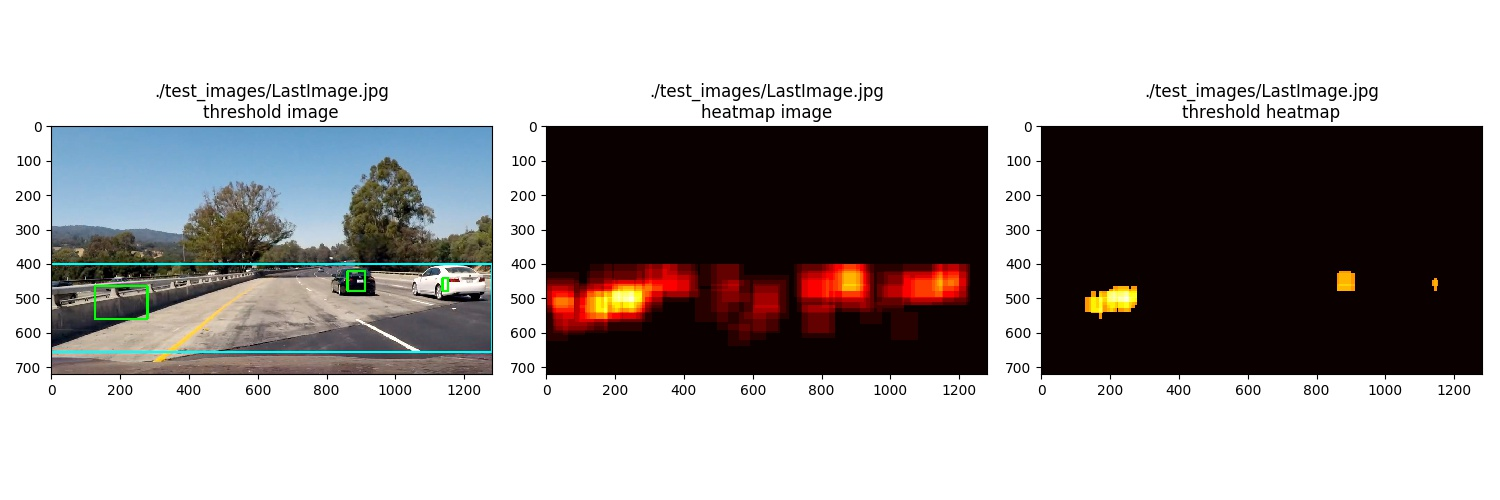
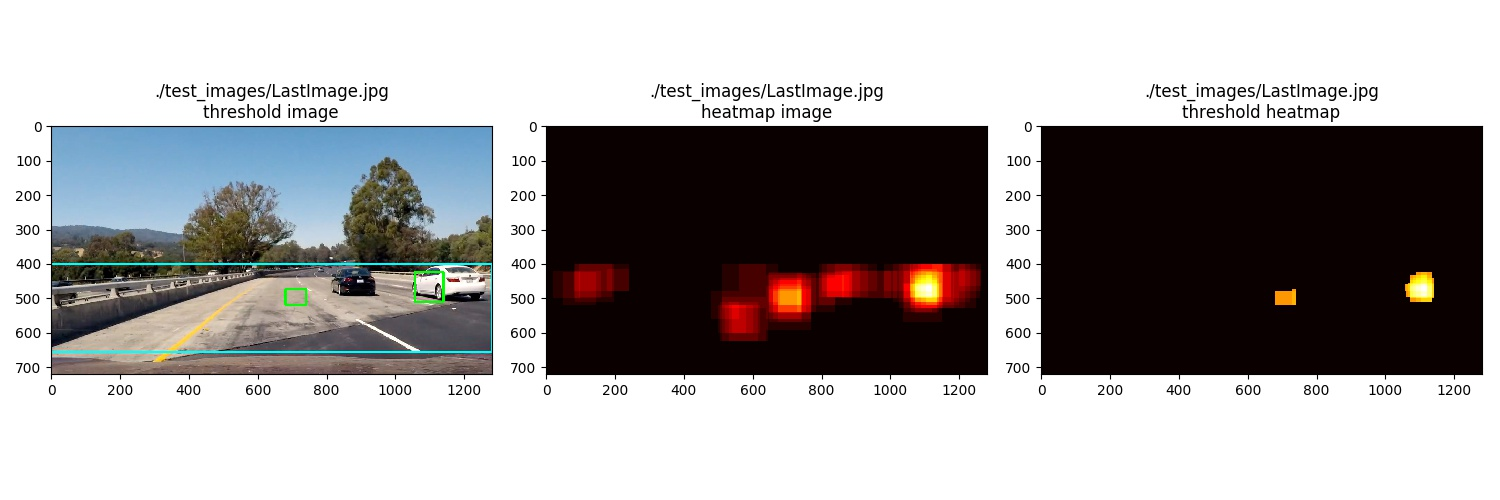
added svc.decision_function threshold & tuned parameters

diff --git a/FindCars.py b/FindCars.py
@@ -127,11 +127,12 @@ def convert_color(image, color_space):
 from sklearn.preprocessing import StandardScaler
 
 # Define a single function that can extract features using hog sub-sampling and make predictions
-def find_cars(img, ystart, ystop, scale, svc, X_scaler, orient, pix_per_cell, cell_per_block, spatial_size, hist_bins):
+def find_cars(img, ystart, ystop, scale, svc, X_scaler, orient, pix_per_cell, cell_per_block, spatial_size, hist_bins, decisionFunctionThreshold=0.0):
     
     draw_img = np.copy(img)
     #print("find_cars-max(img):",np.max(img),", min(img):", np.min(img))
-    cv2.rectangle(draw_img,(0, ystart),(draw_img.shape[1],ystop),(0,255,0),6) 
+    # green bounding box for search
+    cv2.rectangle(draw_img,(0, ystart),(draw_img.shape[1],ystop),(0,255,0), 6) 
     #img = img.astype(np.float32)/255
     img = img.astype(np.float32)
     img_tosearch = img[ystart:ystop,:,:]
@@ -217,15 +218,18 @@ def find_cars(img, ystart, ystop, scale, svc, X_scaler, orient, pix_per_cell, ce
             test_prediction = svc.predict(test_features)
 
             if test_prediction == 1:
-                #print("find_cars-xb:", xb, "steps , xpos:", xpos, "cells, yb:", yb, "steps , ypos:", ypos, "cells, xleft:", xleft
-                #    , "pixels, ytop:", ytop, "pixels, window:", window,"pixels")
-                xbox_left = np.int(xleft*scale)
-                ytop_draw = np.int(ytop*scale)
-                win_draw = np.int(window*scale)
-                #print("find_cars-draw at:", (xbox_left, ytop_draw+ystart), ",", (xbox_left+win_draw,ytop_draw+win_draw+ystart))
-                bounding_box=[(xbox_left, ytop_draw+ystart),(xbox_left+win_draw,ytop_draw+win_draw+ystart)]
-                boundingBoxList+=[bounding_box]
-                cv2.rectangle(draw_img,bounding_box[0], bounding_box[1],(0,0,255),6)
+                decision_function = svc.decision_function(test_features)
+                if decision_function >= decisionFunctionThreshold:
+                    #print("find_cars-xb:", xb, "steps , xpos:", xpos, "cells, yb:", yb, "steps , ypos:", ypos, "cells, xleft:", xleft
+                    #    , "pixels, ytop:", ytop, "pixels, window:", window,"pixels")
+                    xbox_left = np.int(xleft*scale)
+                    ytop_draw = np.int(ytop*scale)
+                    win_draw = np.int(window*scale)
+                    #print("find_cars-draw at:", (xbox_left, ytop_draw+ystart), ",", (xbox_left+win_draw,ytop_draw+win_draw+ystart))
+                    bounding_box=[(xbox_left, ytop_draw+ystart),(xbox_left+win_draw,ytop_draw+win_draw+ystart)]
+                    #print("find_cars-test_prediction:", test_prediction, ", decision_function:", decision_function, ", bounding_box:", bounding_box)
+                    boundingBoxList+=[bounding_box]
+                    cv2.rectangle(draw_img,bounding_box[0], bounding_box[1],(0,0,255),6)
     if TESTING : print("find_cars-boundingBoxList:",boundingBoxList)
     return boundingBoxList
 
@@ -311,13 +315,13 @@ def makeThresholdMap(image, findCars, scales=[1.5], percentOfHeapmapToToss=.5):
     boundingBoxList=[]
     for scale in scales:
         boundingBoxList += findCars(image, scale)
-    heatMap=addHeat(image.shape, boundingBoxList)
-    heatMapCounts=np.unique(heatMap, return_counts=True)
-    print("makeThresholdMap-heatMapCounts:", heatMapCounts, ", len(heatMapCounts):", len(heatMapCounts), ", len(heatMapCounts[0]):", len(heatMapCounts[0]))
-    heatMapMidpoint=heatMapCounts[0][int(round(len(heatMapCounts[0])*percentOfHeapmapToToss))]
-    thresholdMap=applyThreshold(heatMap, heatMapMidpoint)
+    unNormalizedHeatMap=addHeat(image.shape, boundingBoxList)
+    unNormalizedHeatMapCounts=np.unique(unNormalizedHeatMap, return_counts=True)
+    print("makeThresholdMap-unNormalizedHeatMapCounts:", unNormalizedHeatMapCounts, ", len(unNormalizedHeatMapCounts):", len(unNormalizedHeatMapCounts), ", len(unNormalizedHeatMapCounts[0]):", len(unNormalizedHeatMapCounts[0]))
+    unNormalizedHeatMapMidpoint=unNormalizedHeatMapCounts[0][int(round(len(unNormalizedHeatMapCounts[0])*percentOfHeapmapToToss))]
+    thresholdMap=applyThreshold(unNormalizedHeatMap, unNormalizedHeatMapMidpoint)
     print("makeThresholdMap-thresholdMap counts:", (np.unique(thresholdMap, return_counts=True)), ", len(thresholdMap):", len(thresholdMap), ", len(thresholdMap[0]):", len(thresholdMap[0]))
-    return thresholdMap, boundingBoxList, heatMap
+    return thresholdMap, boundingBoxList, unNormalizedHeatMap
 
 def testBoundingBox():
     bb1=((0,0), (1,1))

diff --git a/ProcessVideo.py b/ProcessVideo.py
@@ -18,14 +18,14 @@ if LINEAR:
     SCALERFILENAME='./models/LinearScaler.svm'
     SCALES=[1.5] # Linear
     #SCALES=np.linspace(.75, 2., 6)
-    #SCALES=np.linspace(1., 2., 5)
-    SCALES=np.linspace(1.2, 2., 5)
+    SCALES=np.linspace(1., 2., 5)
+    #SCALES=np.linspace(1.2, 2., 5)
     #SCALES=np.append(SCALES, [2.5, 3., 3.5, 4.])
     print("SCALES:", SCALES)
     PERCENTOFBOUNDINGBOXESTOTOSS=len(SCALES)*.125 # Linear
     # len(SCALES)*.125, only detect left hand car
     # .1 detects both cars, but a lot of other stuff to the left (probably in multiple images)
-    PERCENTOFBOUNDINGBOXESTOTOSS= .3
+    PERCENTOFBOUNDINGBOXESTOTOSS= 0.15
 
 else:
     MODELFILENAME='./models/RbfClassifier.svm'
@@ -36,17 +36,20 @@ else:
 
 
 print('restoring model from: ', MODELFILENAME)
-svc= SaveAndRestoreClassifier.restoreClassifier(MODELFILENAME)
+SVC= SaveAndRestoreClassifier.restoreClassifier(MODELFILENAME)
 
 print('restoring scaler from: ', SCALERFILENAME)
-X_scaler= SaveAndRestoreClassifier.restoreScaler(SCALERFILENAME)
-print('X_scaler: ', X_scaler, ", get_params:", X_scaler.get_params(deep=True), ", mean:", X_scaler.mean_, ", scale:", X_scaler.scale_)
-#X_scaler=None
+X_SCALER= SaveAndRestoreClassifier.restoreScaler(SCALERFILENAME)
+print('X_SCALER: ', X_SCALER, ", get_params:", X_SCALER.get_params(deep=True), ", mean:", X_SCALER.mean_, ", scale:", X_SCALER.scale_)
+#X_SCALER=None
 
 
 frameNumber=None
-ystart = 400
-ystop = 656
+YSTART = 400
+YSTOP = 656
+
+SVCDECISIONFUNCTIONTHRESHOLD=.4
+
 
 thresholdMap=None
 heatMap=None
@@ -104,7 +107,7 @@ def convertFigureToImage(figure):
 
 # .5: pretty much only sees left car
 # .3: is good
-BOUNDINGBOXOVERLAP=.4
+BOUNDINGBOXOVERLAP=.3
 
 def isBoundingBoxOverlapping(theBondingBox1, theBoundingBox2, intersectionOverUnion=BOUNDINGBOXOVERLAP):
     return FindCars.isEitherCompletelyContainedBy(theBondingBox1, theBoundingBox2) \
@@ -153,9 +156,9 @@ def mergeOverlappingBoundingBoxes(theBoundingBoxList, theBoundingBox):
         ", theBoundingBox:", theBoundingBox, ", theBoundingBoxList:", theBoundingBoxList)
     return mergedBoundingBox;
 
-BOUNDINDBOXCOLLECTIONSIZE=6
+BOUNDINDBOXCOLLECTIONSIZE=8
+OVERLAPTHRESHOLD=6
 
-OVERLAPTHRESHOLD=3
 
 def mergeBoundingBoxesAcrossFrames(theFramesBoundingBoxArray, theBoundingBoxList): # boundingBoxCollection from labels
     global frameNumber
@@ -201,11 +204,11 @@ def bumpFrameNumber():
     return frameNumber
 
 def process_image(videoFrame):
-    global ystart
-    global ystop
+    global YSTART
+    global YSTOP
     global SCALES
-    global svc
-    global X_scaler
+    global SVC
+    global X_SCALER
 
     global thresholdMap
     global heatMap
@@ -215,12 +218,13 @@ def process_image(videoFrame):
 
     frameNumber=bumpFrameNumber()
 
-    findCars=lambda image,scale: FindCars.find_cars(image, ystart, ystop, scale, svc, X_scaler,
+    findCars=lambda image,scale: FindCars.find_cars(image, YSTART, YSTOP, scale, SVC, X_SCALER,
         FeatureVectorConfig.ORIENTATIONBINS,
         FeatureVectorConfig.PIXELSPERCELL,
         FeatureVectorConfig.CELLSPERBLOCK,
         FeatureVectorConfig.SPATIALSIZE,
-        FeatureVectorConfig.HISTOGRAMBINS
+        FeatureVectorConfig.HISTOGRAMBINS,
+        SVCDECISIONFUNCTIONTHRESHOLD
         )
     thresholdMap,_,heatMap =FindCars.makeThresholdMap(videoFrame, findCars, SCALES, PERCENTOFBOUNDINGBOXESTOTOSS)
 
@@ -243,7 +247,7 @@ def process_image(videoFrame):
                                               transform = axes.transAxes,
                                               color='w')
     figure=plotFigure(annotatedImage, heatMap, thresholdMap, annotateThresholdImage)
-    cv2.rectangle(annotatedImage,(0, ystart),(annotatedImage.shape[1],ystop),(0,255,255), 2)
+    cv2.rectangle(annotatedImage,(0, YSTART),(annotatedImage.shape[1],YSTOP),(0,255,255), 2)
 
     #return convertFigureToImage(figure) # doesn't wprk on mac
     return annotatedImage
@@ -258,8 +262,10 @@ def processProjectVideo():
     ## Where start_second and end_second are integer values representing the start and end of the subclip
     ## You may also uncomment the following line for a subclip of the first 5 seconds
     ##clip2 = VideoFileClip('test_videos/solidYellowLeft.mp4').subclip(0,5)
+    
     video = VideoFileClip('./project_video.mp4')
     #video = VideoFileClip("./test_video.mp4")
+
     duration = video.duration
     #duration=31.4
     numberOfClips=int(round(duration/float(CLIPLENGTH)+0.5))

diff --git a/ShowFindCars.py b/ShowFindCars.py
@@ -19,16 +19,16 @@ if LINEAR:
     MODELFILENAME='./models/Linear.svm'
     SCALERFILENAME='./models/LinearScaler.svm'
     SCALES=[1.5] # Linear
-    SCALES=np.linspace(.75, 2., 6) # too many boounding boxes, esp at .75
-    SCALES=np.linspace(1., 2., 5) # too many boounding boxes, esp at .75
+    #SCALES=np.linspace(.75, 2., 6) # too many boounding boxes, esp at .75, .75 doesn't seem to add anything
+    SCALES=np.linspace(1., 2., 5)
     PERCENTOFBOUNDINGBOXESTOTOSS=.1 # Linear
     PERCENTOFBOUNDINGBOXESTOTOSS=len(SCALES)/10.
 
 else:
     MODELFILENAME='./models/RbfClassifier.svm'
     SCALERFILENAME='./models/RbfScaler.svm'
-    PERCENTOFBOUNDINGBOXESTOTOSS=.3 # Rbf
-    SCALES=[2.5] # Rbf
+    PERCENTOFBOUNDINGBOXESTOTOSS=.5 # Rbf
+    SCALES=np.linspace(1., 2., 5)
 
 from sklearn.externals import joblib
 
@@ -44,21 +44,22 @@ print('X_scaler: ', X_scaler, ", get_params:", X_scaler.get_params(deep=True), "
 #svc = dist_pickle["svc"]
 #X_scaler = dist_pickle["scaler"]
 #orient = dist_pickle["orient"]
-orient=FeatureVectorConfig.ORIENTATIONBINS
+ORIENT=FeatureVectorConfig.ORIENTATIONBINS
 #pix_per_cell = dist_pickle["pix_per_cell"]
-pix_per_cell = FeatureVectorConfig.PIXELSPERCELL
+PIX_PER_CELL = FeatureVectorConfig.PIXELSPERCELL
 #cell_per_block = dist_pickle["cell_per_block"]
-cell_per_block = FeatureVectorConfig.CELLSPERBLOCK
+CELL_PER_BLOCK = FeatureVectorConfig.CELLSPERBLOCK
 #spatial_size = dist_pickle["spatial_size"]
-spatial_size = FeatureVectorConfig.SPATIALSIZE
+SPATIAL_SIZE = FeatureVectorConfig.SPATIALSIZE
 #hist_bins = dist_pickle["hist_bins"]
-hist_bins = FeatureVectorConfig.HISTOGRAMBINS
+HIST_BINS = FeatureVectorConfig.HISTOGRAMBINS
+SVCDECISIONFUNCTIONTHRESHOLD=.8
 
 ystart = 400
 ystop = 656
 
     
-#out_img = find_cars(img, ystart, ystop, scale, svc, X_scaler, orient, pix_per_cell, cell_per_block, spatial_size, hist_bins)
+#out_img = find_cars(img, ystart, ystop, scale, svc, X_scaler, ORIENT, PIX_PER_CELL, CELL_PER_BLOCK, SPATIAL_SIZE, HIST_BINS)
 
 boundingBoxList=[]
 #SCALES=[1., 1.5, 1.75]
@@ -71,11 +72,11 @@ for imageName,imageId in zip(imageNames, range(0, len(imageNames))):
     img = mpimg.imread(imageName)
 
     #def makeThresholdMap(image, findCars, scales=[1.5], percentOfHeapmapToToss=.5):
-    findCars=lambda image, scale: FindCars.find_cars(image, ystart, ystop, scale, svc, X_scaler, orient, pix_per_cell, cell_per_block, spatial_size, hist_bins)
-    thresholdMap,_,heatMap =FindCars.makeThresholdMap(img, findCars, SCALES, PERCENTOFBOUNDINGBOXESTOTOSS)
+    findCars=lambda image, scale: FindCars.find_cars(image, ystart, ystop, scale, svc, X_scaler, ORIENT, PIX_PER_CELL, CELL_PER_BLOCK, SPATIAL_SIZE, HIST_BINS, SVCDECISIONFUNCTIONTHRESHOLD)
+    thresholdMap,boundingBoxList,heatMap =FindCars.makeThresholdMap(img, findCars, SCALES, PERCENTOFBOUNDINGBOXESTOTOSS)
 
     #for scale in SCALES:
-    #    boundingBoxList += FindCars.find_cars(img, ystart, ystop, scale, svc, X_scaler, orient, pix_per_cell, cell_per_block, spatial_size, hist_bins)
+    #    boundingBoxList += FindCars.find_cars(img, ystart, ystop, scale, svc, X_scaler, ORIENT, pix_per_cell, CELL_PER_BLOCK, SPATIAL_SIZE, HIST_BINS)
 
     #out_img=FindCars.drawBoxes(img, boundingBoxList) # blue boxes
     #out_img=img # skip the blue boxes
@@ -95,6 +96,8 @@ for imageName,imageId in zip(imageNames, range(0, len(imageNames))):
     out_img, boundingBoxes=FindCars.drawLabelsOnImage(img, thresholdMap) # drawLabelsOnImage makes a copy of the image
     #print ("out_img-type:", type(out_img), ", len:", len(out_img), ", out_img:", out_img)
     cv2.rectangle(out_img,(0, ystart),(out_img.shape[1],ystop),(0,255,255),6) 
+    # no good, because it is not weighted
+    #out_img=FindCars.drawBoxes(out_img, boundingBoxList, color=(0, 0, 255), thick=6)
 
 
     figureColumnCount=3

diff --git a/WindowSearch.py b/WindowSearch.py
@@ -22,7 +22,7 @@ scaler= SaveAndRestoreClassifier.restoreScaler(SCALERFILENAME)
 print('scaler: ', scaler, ", get_params:", scaler.get_params(deep=True),
     ", mean:", scaler.mean_, ", len(mean):", len(scaler.mean_),
     ", scale:", scaler.scale_, ", len(scale):", len(scaler.scale_))
-scaler=None
+#scaler=None
 
 from skimage.feature import hog
 #from lesson_functions import *
@@ -271,6 +271,7 @@ for imageName,imageId in zip(imageNames, range(0, len(imageNames))):
 
     MINIMUMWINDOW=64
     MAXIMUMWINDOW=128
+    OVERLAP=0.8
 
     window_img=None
     windowSize=MINIMUMWINDOW
@@ -278,7 +279,7 @@ for imageName,imageId in zip(imageNames, range(0, len(imageNames))):
     while windowSize <= MAXIMUMWINDOW:
         print ("windowSize:", windowSize)
         windows = slide_window(image, x_start_stop=[None, None], y_start_stop=y_start_stop, 
-                            xy_window=(windowSize, windowSize), xy_overlap=(0.5, 0.5))
+                            xy_window=(windowSize, windowSize), xy_overlap=(OVERLAP, OVERLAP))
 
         hot_windows = search_windows(image, windows, classifier, scaler, color_space=FeatureVectorConfig.COLORSPACE, 
                                 spatial_size=FeatureVectorConfig.SPATIALSIZE, hist_bins=FeatureVectorConfig.HISTOGRAMBINS, 
@@ -287,7 +288,6 @@ for imageName,imageId in zip(imageNames, range(0, len(imageNames))):
                                 hog_channel=FeatureVectorConfig.HOGCHANNEL, spatial_feat=FeatureVectorConfig.SPATIALFEATURES, 
                                 hist_feat=FeatureVectorConfig.HISTOGRAMFEATURES, hog_feat=FeatureVectorConfig.HOGFEATURES)                       
 
-        window_img = draw_boxes(draw_image, hot_windows, color=(0, 0, 255), thick=6)
         windowSize = windowSize*2
         hotWindowList+=hot_windows
         
@@ -295,6 +295,7 @@ for imageName,imageId in zip(imageNames, range(0, len(imageNames))):
     #plt.show()
 
     print("hotWindowList:", hotWindowList)
+    window_img = draw_boxes(draw_image, hotWindowList, color=(0, 0, 255), thick=6)
     def add_heat(heatmap, bbox_list):
         # Iterate through list of bboxes
         for box in bbox_list:

diff --git a/HogFeatures.py b/HogFeatures.py
@@ -11,7 +11,11 @@ import numpy as np
 def get_hog_features(img, orient, pix_per_cell, cell_per_block, 
                         vis=False, feature_vec=True):
     #print("get_hog_features-max(img):",np.max(img),", min(img):", np.min(img))
-    imageCopy=img.copy()-np.min(img)
+    imageMinimum=np.min(img)
+    if imageMinimum<0 :
+      imageCopy=img.copy()-np.min(img)
+    else:
+      imageCopy=img.copy()
     # Call with two outputs if vis==True
     if vis == True:
         features, hog_image = hog(imageCopy, orientations=orient, pixels_per_cell=(pix_per_cell, pix_per_cell),
